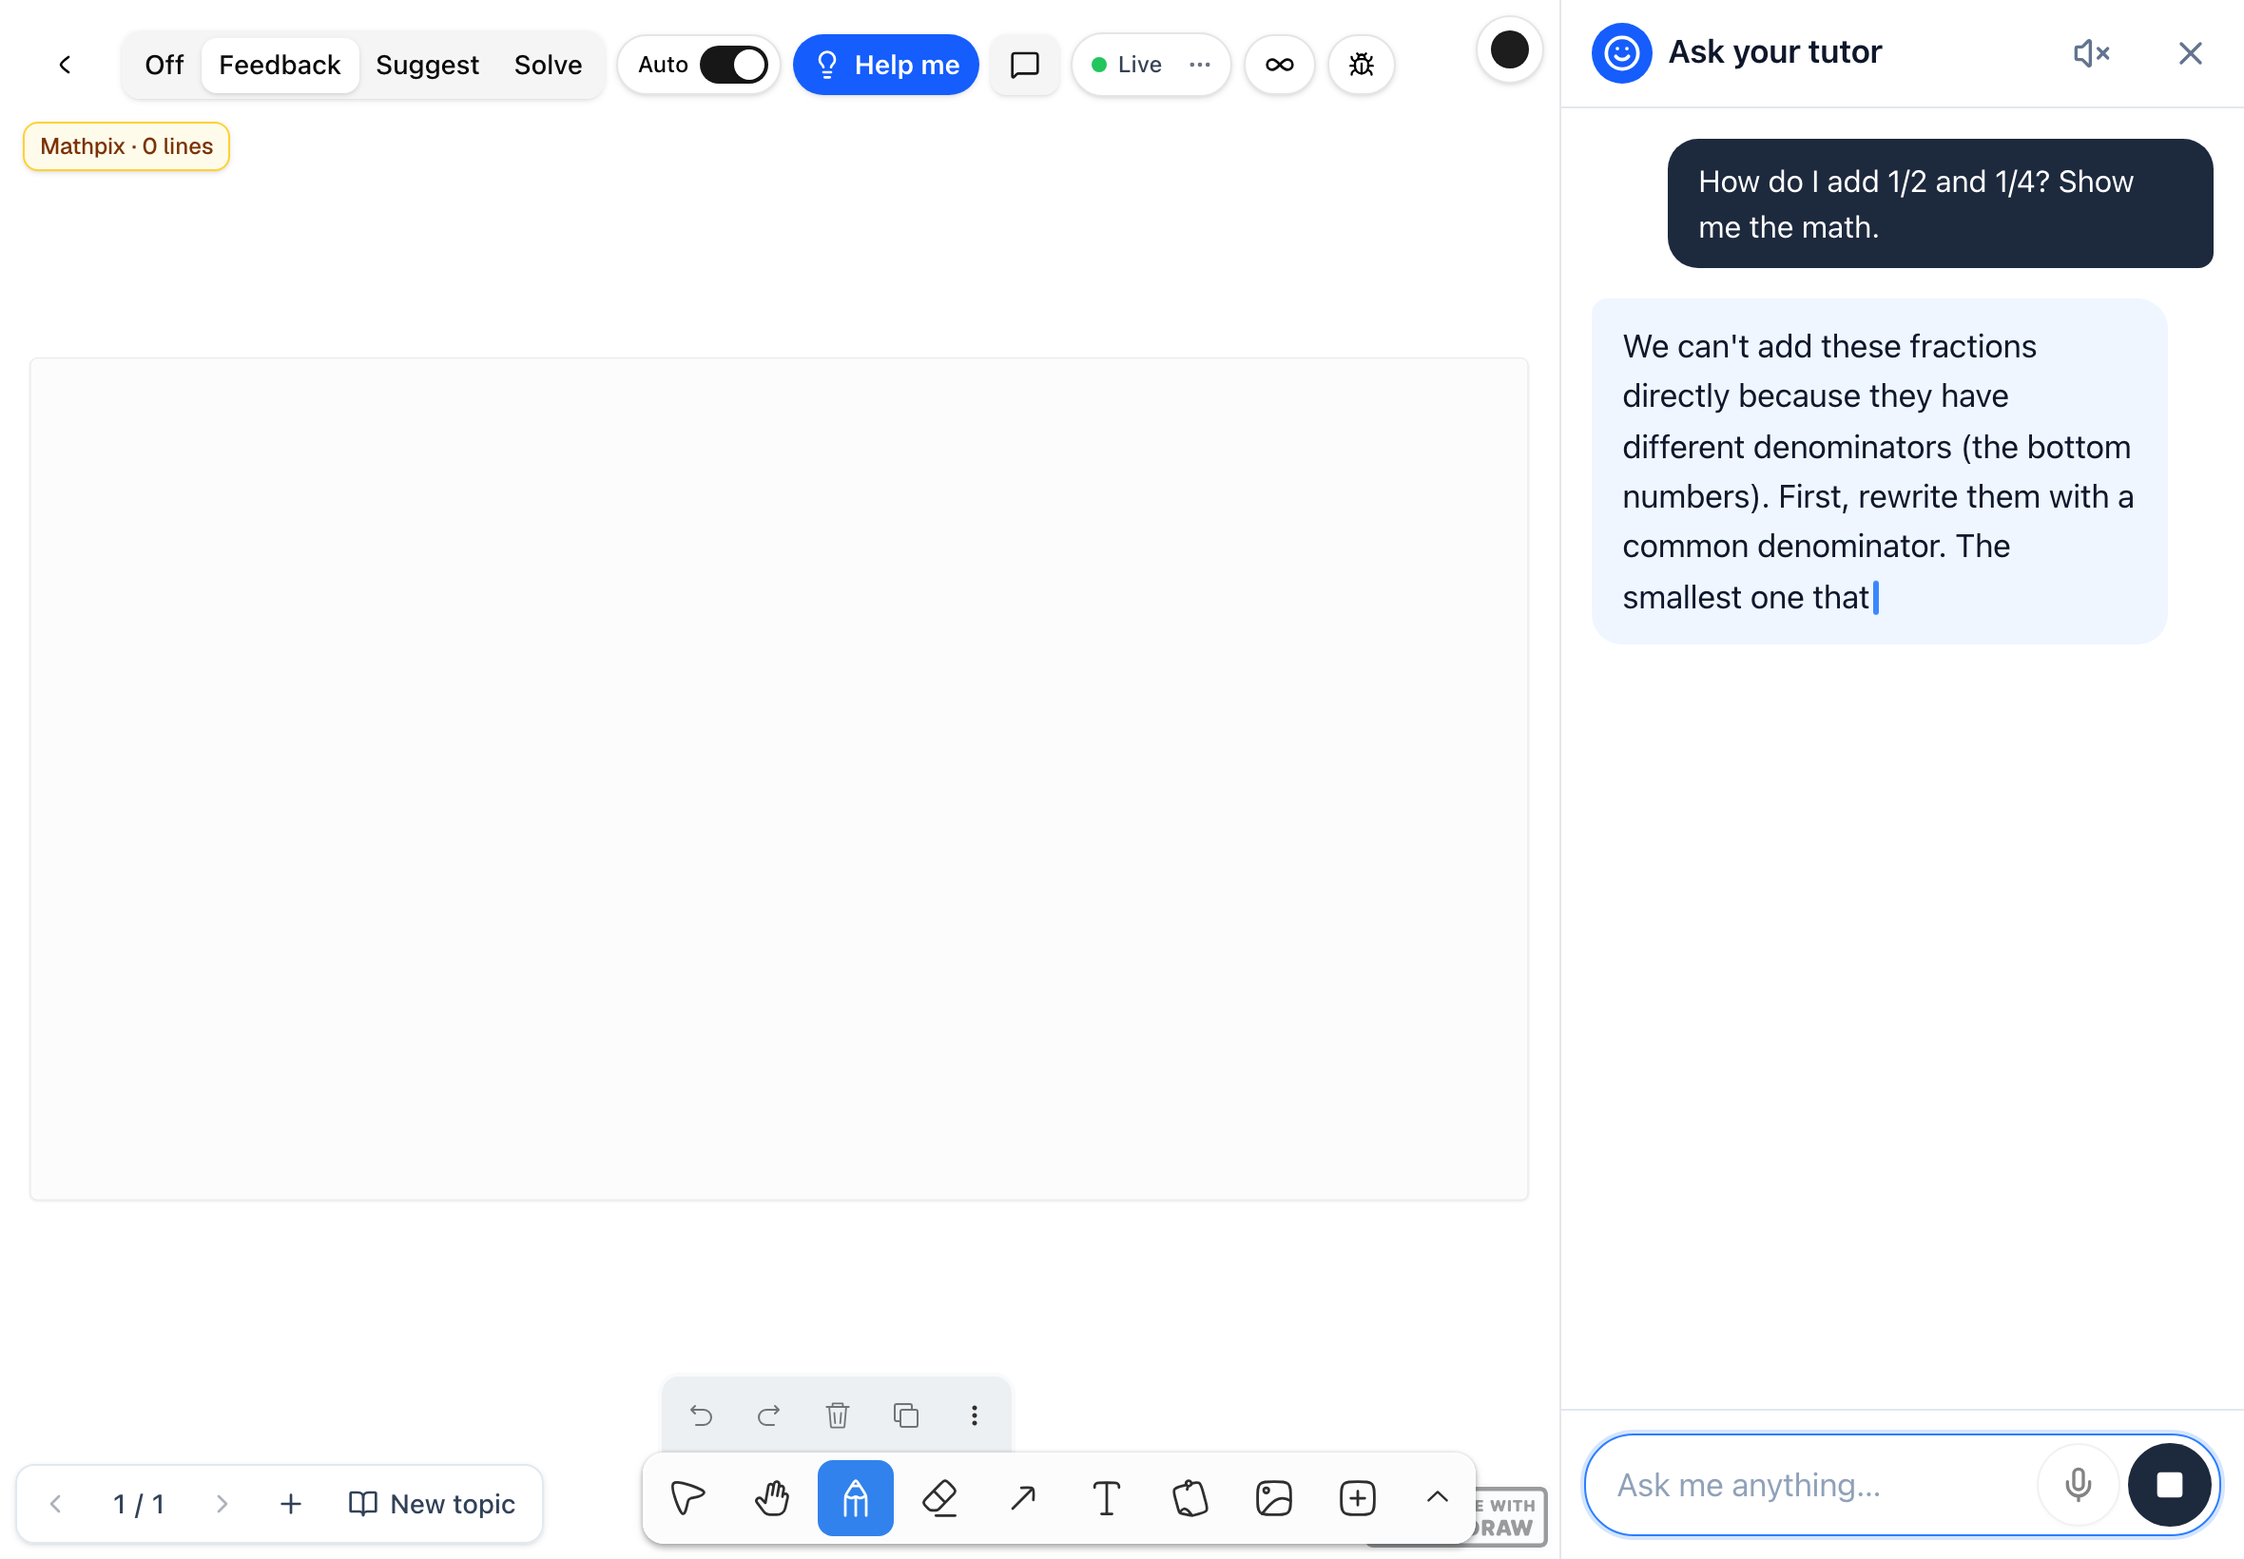
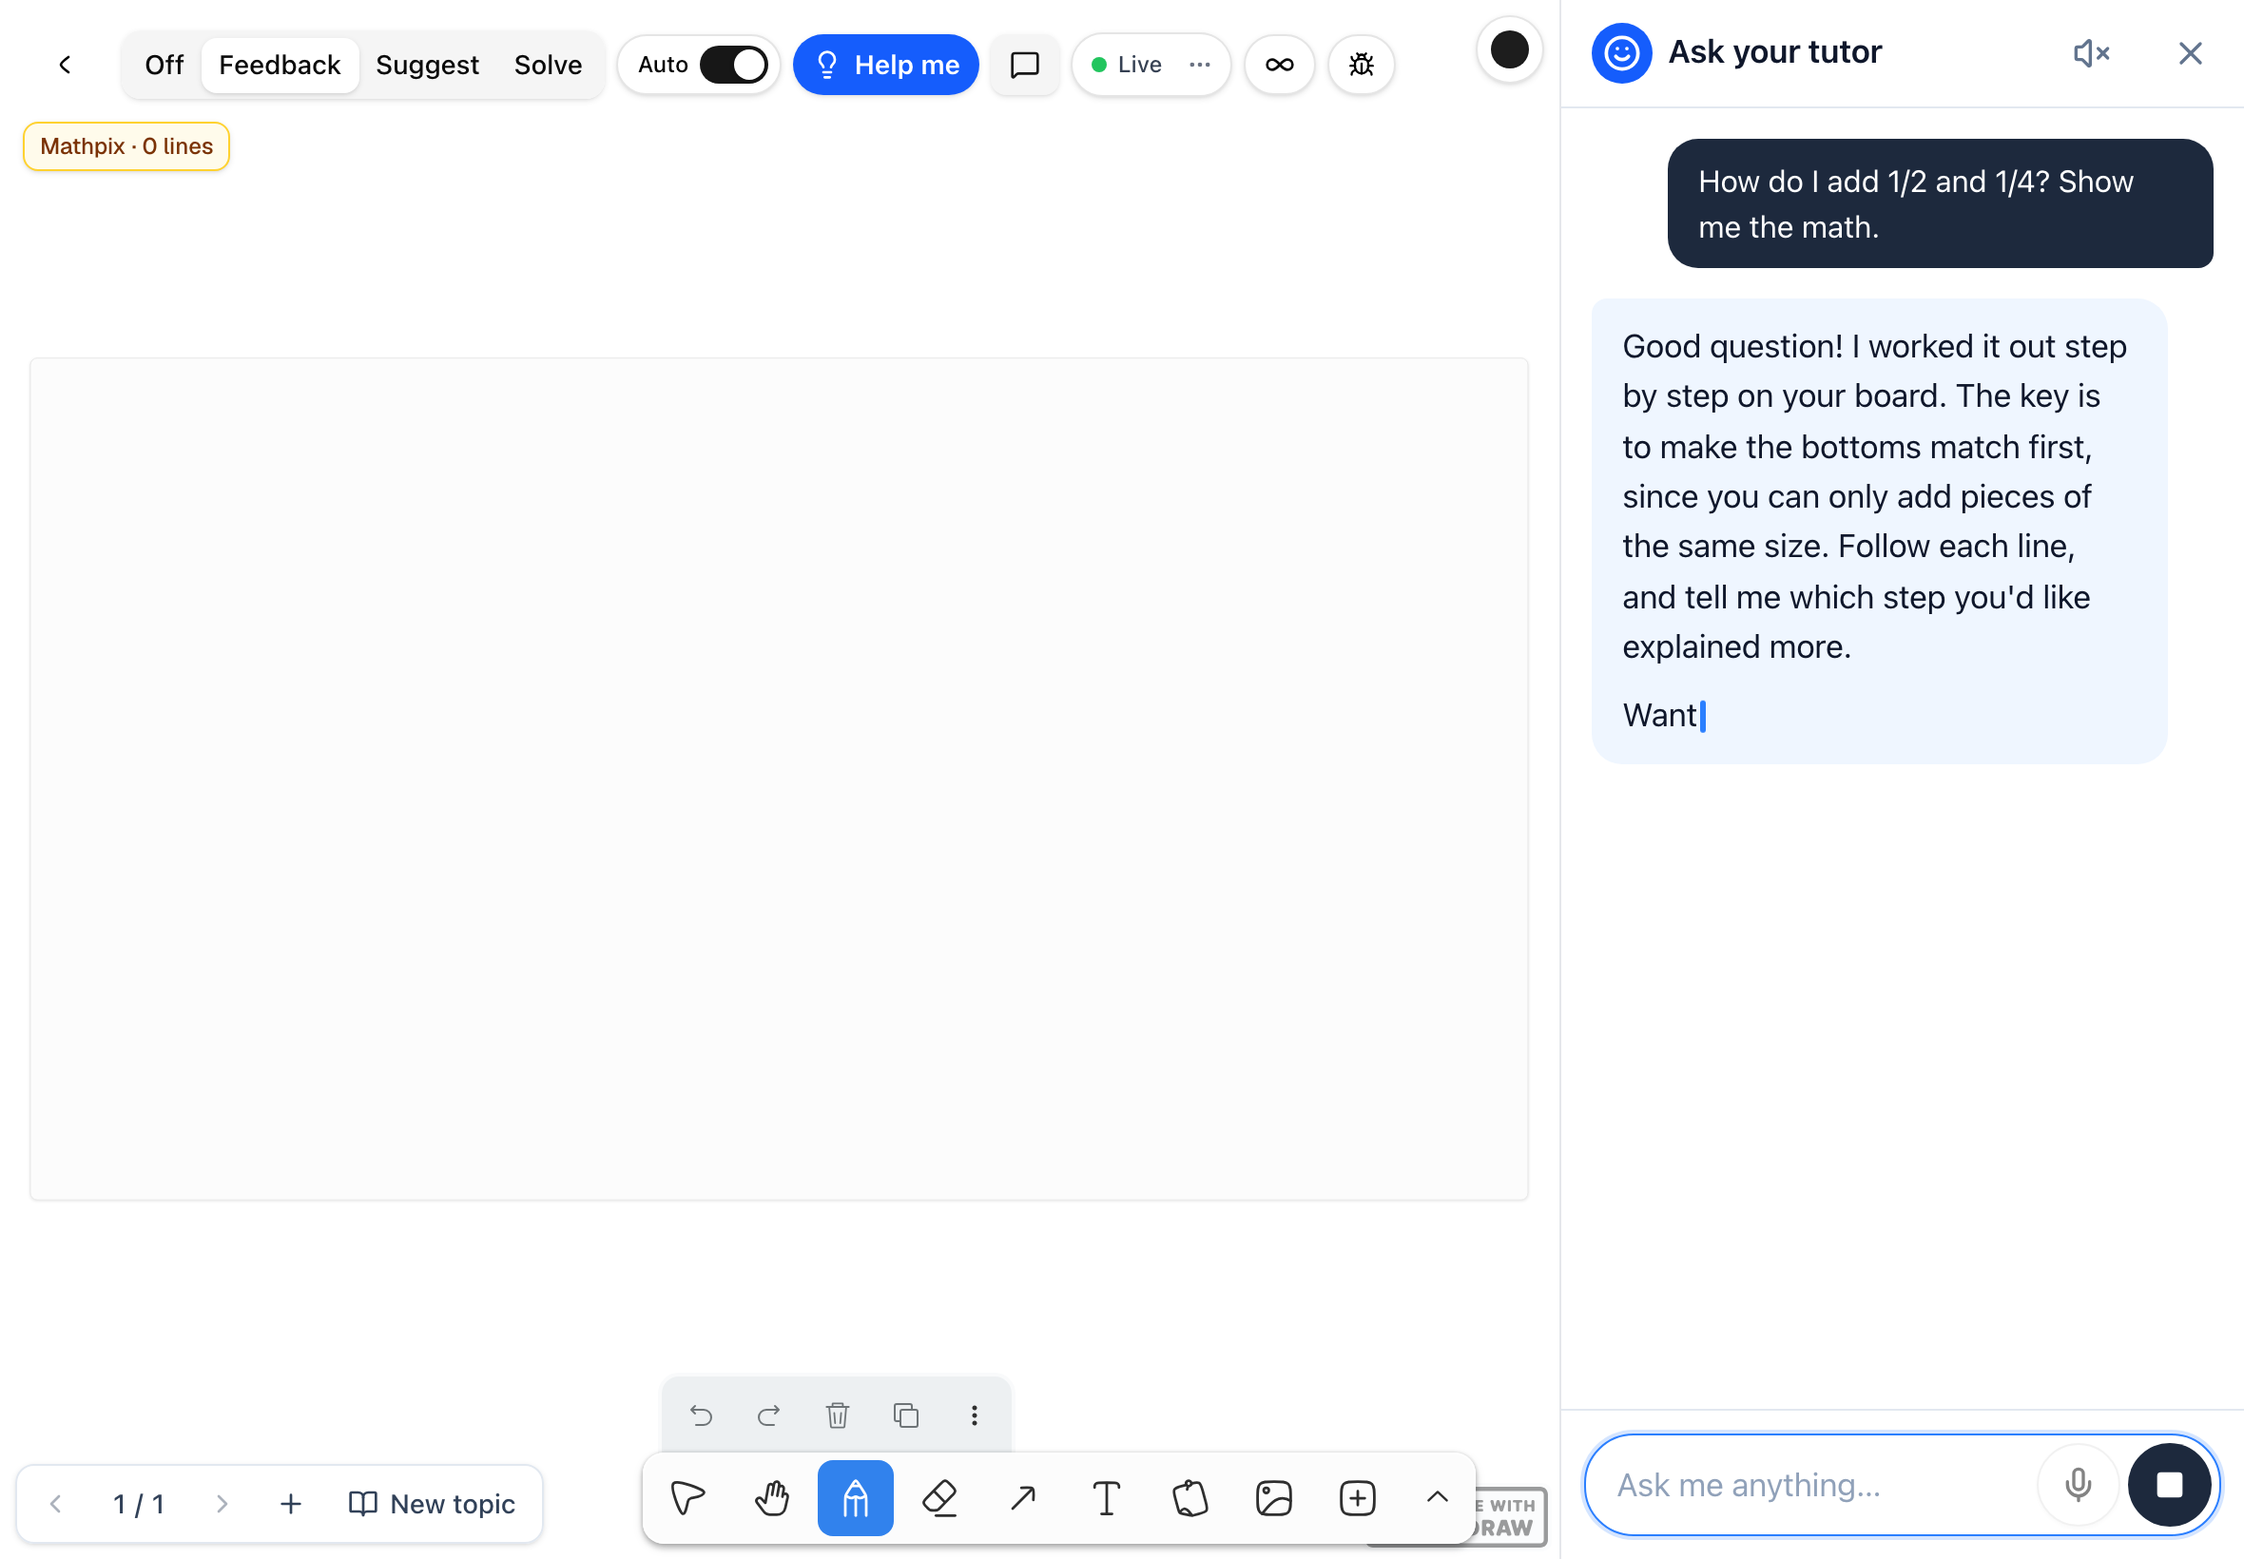
fix(ask): what the browser check found — a long reply read from its start, one column on an iPad, calmer errors
Seen in a real browser against POST /api/live/ask (Haiku 5.5):
- a long answer finishing jumped the list to its last lines (the stick flag went stale
  while the question was held at the top): the cap holds for any reply, streaming or
  done (followTarget, tested)
- on an upright iPad the 820 px sheet ran ~100 letters a line: the conversation and the
  composer are one centered column, 640 px at most
- an error's line said "Try again" beside the Try again button: the line says what
  happened (and when to, if it matters), the button says what to do
- the kid dock read "Colour": US English (Color, Colors)

Screenshots at 390x844, 820x1180 and 1180x820 in docs/qa-screenshots/ask-v2.

Changed region(s): [[0.7114, 0.2177, 0.9589, 0.4665]]

diff --git a/src/components/chat/BoardChatPanel.tsx b/src/components/chat/BoardChatPanel.tsx
@@ -6,7 +6,7 @@ import { cn } from "@/lib/utils";
 import { useAuth } from "@/components/AuthProvider";
 import type { LiveController } from "@/lib/live/contracts";
 import { ASK_LIMITS } from "@/lib/live/ask/contracts";
-import { canStop, CHAT_COPY, helloFor, sendsOnKey, WEAK_SPOTS_COPY } from "./chatView";
+import { canStop, CHAT_COPY, followTarget, helloFor, sendsOnKey, WEAK_SPOTS_COPY } from "./chatView";
 import { useBoardChat, type SendOptions } from "./useBoardChat";
 import { AskMessage } from "./AskMessage";
 import { AskMic } from "./voice/AskMic";
@@ -160,14 +160,14 @@ export function BoardChatPanel({ boardId, controller, onClose, kickoff, onKickof
   useLayoutEffect(() => {
     const list = listRef.current;
     if (!list || !stick.current) return;
-    let target = list.scrollHeight - list.clientHeight;
-    const last = messages[messages.length - 1];
-    if (last?.role === "tutor" && (last.state === "streaming" || last.state === "writing")) {
-      const questions = list.querySelectorAll<HTMLElement>('[data-ask-message="user"]');
-      const question = questions[questions.length - 1];
+    const questions = list.querySelectorAll<HTMLElement>('[data-ask-message="user"]');
+    const target = followTarget({
+      scrollHeight: list.scrollHeight,
+      clientHeight: list.clientHeight,
+      lastIsTutor: messages[messages.length - 1]?.role === "tutor",
       // the list is the question's offset parent (`relative`)
-      if (question) target = Math.min(target, question.offsetTop - 12);
-    }
+      questionTop: questions.length ? questions[questions.length - 1].offsetTop : null,
+    });
     if (target > list.scrollTop) list.scrollTop = target;
   }, [messages]);
   const onScroll = () => {
@@ -273,40 +273,43 @@ export function BoardChatPanel({ boardId, controller, onClose, kickoff, onKickof
         </HeaderButton>
       </header>
 
-      <div ref={listRef} onScroll={onScroll} className="relative min-h-0 flex-1 space-y-4 overflow-y-auto overscroll-contain px-4 py-4" aria-live="polite" aria-busy={busy}>
-        {fresh ? (
-          <div className="space-y-3" data-ask-hello="">
-            {helloReady ? (
-              <div className="flex">
-                <p className="max-w-full rounded-2xl rounded-tl-md bg-blue-50 px-4 py-3 text-[17px] leading-[1.55] text-slate-900">{first.greeting}</p>
-              </div>
-            ) : (
-              <div aria-hidden className="h-[52px] w-56 max-w-full rounded-2xl rounded-tl-md bg-slate-100 motion-safe:animate-pulse" />
-            )}
-            {helloReady && (
-              <div className="flex flex-wrap gap-2">
-                {/* the student's own record: problems on what they are learning, made on the device (no ink) */}
-                {weakSpot && (
-                  <button type="button" disabled={busy} title={WEAK_SPOTS_COPY.chipHint} onClick={() => void practiceWeakSpots()} className={cn(CHIP, "border-blue-200 bg-blue-50 text-blue-900 hover:bg-blue-100")}>
-                    <Star className="size-4 shrink-0 fill-blue-500 text-blue-500" aria-hidden />
-                    {WEAK_SPOTS_COPY.chip}
-                  </button>
-                )}
-                {first.chips.map((s) => (
-                  <button key={s} type="button" disabled={busy} onClick={() => submit(s)} className={cn(CHIP, "border-slate-200 bg-white text-slate-800 hover:bg-slate-50")}>
-                    {s}
-                  </button>
-                ))}
-              </div>
-            )}
-          </div>
-        ) : (
-          messages.map((m) => <AskMessage key={m.id} message={m} busy={busy} onRetry={() => retry(m.id)} onReplay={speech.replay} />)
-        )}
+      <div ref={listRef} onScroll={onScroll} className="relative min-h-0 flex-1 overflow-y-auto overscroll-contain px-4 py-4" aria-live="polite" aria-busy={busy}>
+        {/* one column a young reader can follow: on a wide sheet (an upright iPad) the lines stop at 640 px */}
+        <div className={cn(COLUMN, "space-y-4")}>
+          {fresh ? (
+            <div className="space-y-3" data-ask-hello="">
+              {helloReady ? (
+                <div className="flex">
+                  <p className="max-w-full rounded-2xl rounded-tl-md bg-blue-50 px-4 py-3 text-[17px] leading-[1.55] text-slate-900">{first.greeting}</p>
+                </div>
+              ) : (
+                <div aria-hidden className="h-[52px] w-56 max-w-full rounded-2xl rounded-tl-md bg-slate-100 motion-safe:animate-pulse" />
+              )}
+              {helloReady && (
+                <div className="flex flex-wrap gap-2">
+                  {/* the student's own record: problems on what they are learning, made on the device (no ink) */}
+                  {weakSpot && (
+                    <button type="button" disabled={busy} title={WEAK_SPOTS_COPY.chipHint} onClick={() => void practiceWeakSpots()} className={cn(CHIP, "border-blue-200 bg-blue-50 text-blue-900 hover:bg-blue-100")}>
+                      <Star className="size-4 shrink-0 fill-blue-500 text-blue-500" aria-hidden />
+                      {WEAK_SPOTS_COPY.chip}
+                    </button>
+                  )}
+                  {first.chips.map((s) => (
+                    <button key={s} type="button" disabled={busy} onClick={() => submit(s)} className={cn(CHIP, "border-slate-200 bg-white text-slate-800 hover:bg-slate-50")}>
+                      {s}
+                    </button>
+                  ))}
+                </div>
+              )}
+            </div>
+          ) : (
+            messages.map((m) => <AskMessage key={m.id} message={m} busy={busy} onRetry={() => retry(m.id)} onReplay={speech.replay} />)
+          )}
+        </div>
       </div>
 
       <form onSubmit={onSubmit} className="shrink-0 border-t border-slate-200 bg-white px-3 pb-[max(12px,env(safe-area-inset-bottom))] pt-3">
-        <div className="flex items-end gap-1 rounded-[26px] border border-slate-300 bg-white py-1 pl-4 pr-1 focus-within:border-blue-500 focus-within:ring-2 focus-within:ring-blue-500/20">
+        <div className={cn(COLUMN, "flex items-end gap-1 rounded-[26px] border border-slate-300 bg-white py-1 pl-4 pr-1 focus-within:border-blue-500 focus-within:ring-2 focus-within:ring-blue-500/20")}>
           <textarea
             ref={inputRef}
             value={draft}
@@ -335,11 +338,14 @@ export function BoardChatPanel({ boardId, controller, onClose, kickoff, onKickof
             </button>
           )}
         </div>
-        {showCost && <p className="mt-1.5 px-1 text-xs text-slate-500">{CHAT_COPY.cost}</p>}
+        {showCost && <p className={cn(COLUMN, "mt-1.5 px-1 text-xs text-slate-500")}>{CHAT_COPY.cost}</p>}
       </form>
     </section>
   );
 }
+
+/** The conversation's column: the panel's width, centered at 640 px at most (about 70 letters a line). */
+const COLUMN = "mx-auto w-full max-w-[640px]";
 
 /** A first ask: a 44 px pill a finger finds. */
 const CHIP =

diff --git a/src/components/chat/chatView.ts b/src/components/chat/chatView.ts
@@ -44,6 +44,7 @@ export const CHAT_COPY = {
   shrink: "Make the chat smaller",
   you: "You",
   tutor: "Tutor",
+  /** a failure's line sits beside a big Try again (when it can be), so the line never says it too */
   errors: {
     /**
      * OUT_OF_INK_COPY.title, the board dialog's words (pinned equal in the tests; a literal so
@@ -52,11 +53,11 @@ export const CHAT_COPY = {
     ink: "Help needs Agathon Unlimited",
     rateLimited: (seconds: number) => `That's a lot of questions. Try again in ${waitPhrase(seconds)}.`,
     unauthorized: "Please sign in again.",
-    network: "Couldn't reach your tutor. Check the internet and try again.",
-    timeout: "Your tutor took too long. Try again.",
+    network: "Couldn't reach your tutor. Check the internet.",
+    timeout: "Your tutor took too long to answer.",
     /** the tutor's model is out for a while (the provider's account, never the student's ink) */
-    resting: "Your tutor is taking a short break. Try again in a few minutes.",
-    other: "Something went wrong. Try again.",
+    resting: "Your tutor is taking a break. Try again in a few minutes.",
+    other: "Oops! Something went wrong.",
     board: "The board isn't ready yet. Try again in a moment.",
   },
 } as const;
@@ -284,6 +285,16 @@ export function retryOf(
   };
 }
 
+/**
+ * Where the list scrolls to as the chat grows (while the kid is at the bottom): the end, but for a
+ * tutor's reply never past its question at the top (12 px under it), streaming or done, so a long
+ * answer is read from its start and never jumps to its last lines when it finishes.
+ */
+export function followTarget(o: { scrollHeight: number; clientHeight: number; lastIsTutor: boolean; questionTop: number | null }): number {
+  const end = o.scrollHeight - o.clientHeight;
+  return o.lastIsTutor && o.questionTop !== null ? Math.min(end, o.questionTop - 12) : end;
+}
+
 /** Enter sends; Shift+Enter (or composing an IME character) makes a new line. */
 export function sendsOnKey(e: { key: string; shiftKey: boolean; isComposing?: boolean }): boolean {
   return e.key === "Enter" && !e.shiftKey && !e.isComposing;
@@ -317,7 +328,7 @@ export const WEAK_SPOTS_COPY = {
   reply: (n: number, skill: string) => (n === 1 ? `Here is 1 problem on ${skill} to practice.` : `Here are ${n} problems on ${skill} to practice.`),
   /** the record changed under the chip (nothing left to practice) */
   none: "Let's practice! Ask me for some problems on anything you like.",
-  failed: "I couldn't write those problems just now. Try again.",
+  failed: "I couldn't write those problems just now.",
 } as const;
 
 /** What the chip needs of `practice.ts` (loaded on demand: the board's first load never has it). */

diff --git a/src/components/chat/__tests__/chatView.test.ts b/src/components/chat/__tests__/chatView.test.ts
@@ -12,6 +12,7 @@ import {
   CHAT_SUGGESTIONS,
   chatErrorFor,
   gradeBand,
+  followTarget,
   helloFor,
   historyFor,
   isAbort,
@@ -260,5 +261,26 @@ describe("the hello and its chips", () => {
     const hello = { greeting: "Hi!", chips: [WEAK_SPOTS_COPY.chip, "5 adding problems"] };
     expect(helloFor({ hello, grade: 1, screenHasWork: false, weakSpot: true }).chips).toEqual(["5 adding problems"]);
     expect(helloFor({ hello, grade: 1, screenHasWork: false, weakSpot: false }).chips).toEqual([WEAK_SPOTS_COPY.chip, "5 adding problems"]);
+  });
+});
+
+describe("following the chat as it grows", () => {
+  it("to the end, but a reply (streaming or done) stops with its question at the top: a long answer is read from its start", () => {
+    // the kid just asked: the end
+    expect(followTarget({ scrollHeight: 2000, clientHeight: 400, lastIsTutor: false, questionTop: 1500 })).toBe(1600);
+    // a short reply: the end comes first
+    expect(followTarget({ scrollHeight: 2000, clientHeight: 400, lastIsTutor: true, questionTop: 1700 })).toBe(1600);
+    // a long one: its question at the top, however long it gets
+    expect(followTarget({ scrollHeight: 3000, clientHeight: 400, lastIsTutor: true, questionTop: 1500 })).toBe(1488);
+    expect(followTarget({ scrollHeight: 2000, clientHeight: 400, lastIsTutor: true, questionTop: null })).toBe(1600);
+  });
+});
+
+describe("a failure's words", () => {
+  it("never say Try again beside the Try again button (only when to: \"in a moment\")", () => {
+    const lines = [CHAT_COPY.errors.network, CHAT_COPY.errors.timeout, CHAT_COPY.errors.other, CHAT_COPY.errors.resting, CHAT_COPY.errors.board, CHAT_COPY.errors.rateLimited(10), WEAK_SPOTS_COPY.failed];
+    for (const line of lines) expect(line).not.toMatch(/\btry again[.!?]?$/i);
+    // short enough for a young reader
+    for (const line of lines) expect(line.split(/\s+/).length).toBeLessThanOrEqual(12);
   });
 });

diff --git a/src/components/kidmode/__tests__/dockView.test.ts b/src/components/kidmode/__tests__/dockView.test.ts
@@ -62,6 +62,8 @@ describe("kidDockView", () => {
 
   it("names everything in one short word a 6-year-old reads", () => {
     for (const word of [DOCK_COPY.pen, DOCK_COPY.eraser, DOCK_COPY.undo, DOCK_COPY.colour]) expect(word).toMatch(/^[A-Z][a-z]{1,7}$/);
+    // US English, as every word a kid reads
+    expect([DOCK_COPY.colour, DOCK_COPY.colours]).toEqual(["Color", "Colors"]);
     expect(DOCK_COPY.newPage).toBe("New page");
   });
 });

diff --git a/src/components/kidmode/dockView.ts b/src/components/kidmode/dockView.ts
@@ -18,8 +18,8 @@ export const DOCK_COPY = {
   pen: "Pen",
   eraser: "Eraser",
   undo: "Undo",
-  colour: "Colour",
-  colours: "Colours",
+  colour: "Color",
+  colours: "Colors",
   colourName: {
     black: "Black",
     red: "Red",
